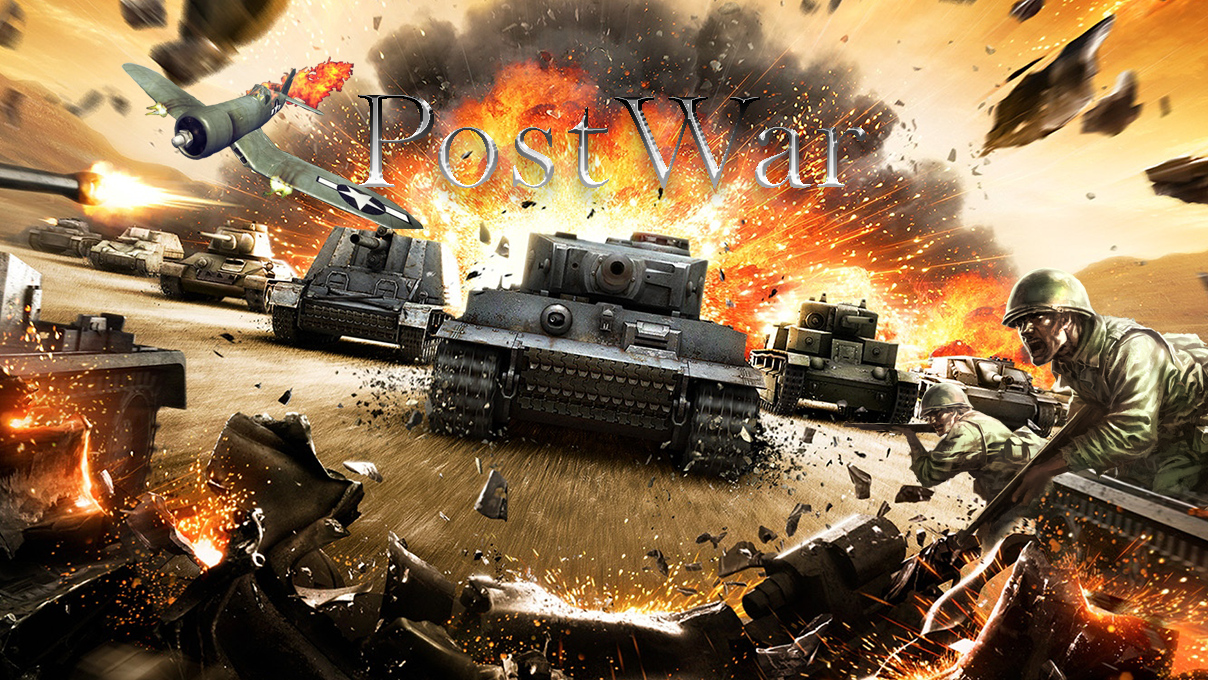
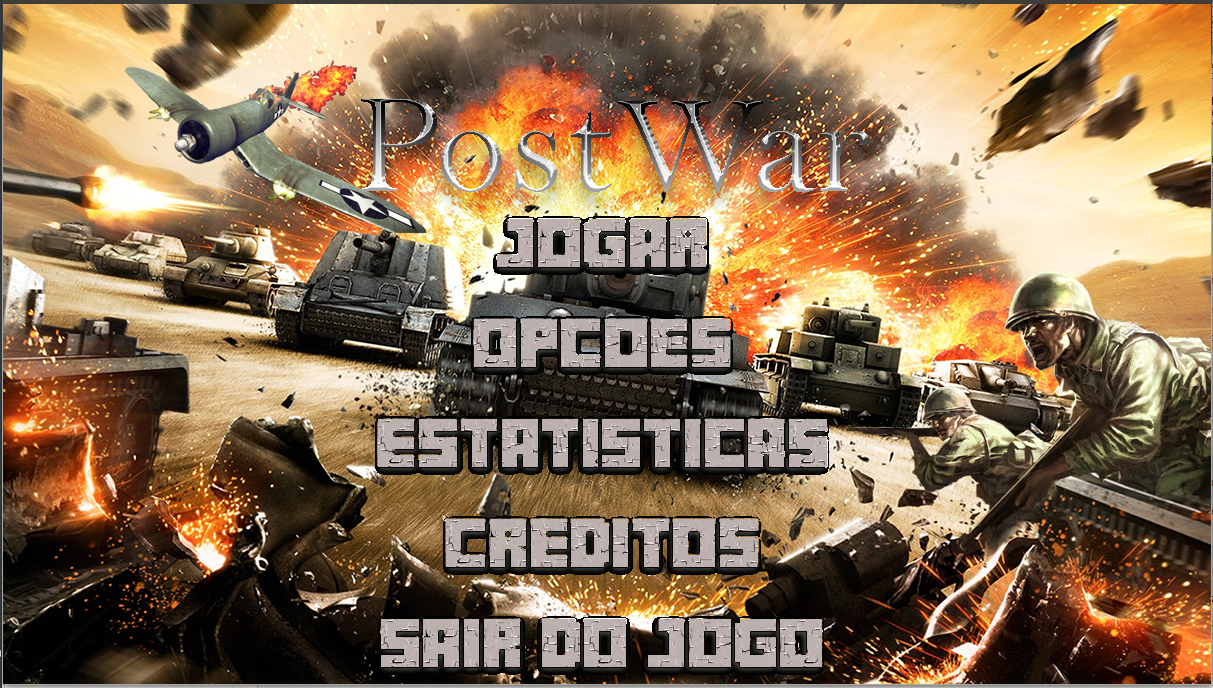
Consegui fazer a barra desaparecer hehuehue

diff --git a/source/GameFeatures/Menu/menu.cpp b/source/GameFeatures/Menu/menu.cpp
@@ -4,7 +4,7 @@
 #include "../../../include/draw.h"
 #include "../../../include/video.h"
 #include "../../../include/loop.h"
-
+#include "../../../include/gamefeatures.h"
 
 
 void load_menu(SDL_Surface *screen){
@@ -15,26 +15,14 @@ void load_menu(SDL_Surface *screen){
     borda = load_Image(path,screen);
     path = "source/GameFeatures/Menu/Images/menu.png";
     SDL_Surface *menu = load_Image(path, screen);
-    path = "source/GameFeatures/Menu/Images/jogar.png";
-    SDL_Surface *jogar = load_Image(path, screen); //h: 255, w: 78
-    path = "source/GameFeatures/Menu/Images/opcoes.png";
-    SDL_Surface *opcoes = load_Image(path, screen);// ,w: 78
-    path = "source/GameFeatures/Menu/Images/sair.png";
-    SDL_Surface *sair = load_Image(path, screen);
-    path = "source/GameFeatures/Menu/Images/estatisticas.png";
-    SDL_Surface *estatisticas = load_Image(path, screen);
-    path = "source/GameFeatures/Menu/Images/creditos.png";
-    SDL_Surface *creditos = load_Image(path, screen);
-    BlitImage(screen, menu, 0, 0);
-    BlitImage(screen, jogar, 476.5, 201);
-    BlitImage(screen, opcoes, 453.4, 301);
-    BlitImage(screen, estatisticas, 357, 401);
-    BlitImage(screen, creditos, 425.5, 501);
-    BlitImage(screen, sair, 360.5, 601);
-    SDL_Flip(screen);
 
+
+    SDL_Flip(screen);
+    int cont=0;
     Vetor_mouse *vetor = new Vetor_mouse;
     while(1){
+
+
 
         vetor = get_Input();
 
@@ -47,9 +35,13 @@ void load_menu(SDL_Surface *screen){
             //cout<<"Entrei aqui"<<endl;
             if(vetor->click == 1){
                 //cout<<"Clicou em jogar"<<endl;
-                //jogar();
+                inicio(screen);
             }
-        }
+
+        }   else{
+                 BlitImage(screen, menu, 0, 0);
+                SDL_Flip(screen);
+            }
 
     }
 

diff --git a/include/draw.h b/include/draw.h
@@ -15,7 +15,7 @@ extern void drawCircle(SDL_Surface *screen, int radius, int x, int y,
 	SDL_Color color);
 extern void drawLine(SDL_Surface *screen, int x0, int y0, int x1, int y1,
 	SDL_Color color);
-
+extern void inicio(SDL_Surface *screen);
 extern SDL_Surface *load_Image(string path,SDL_Surface *screen);
 extern void BlitImage(SDL_Surface *screen, SDL_Surface *image, int x, int y);
 extern void free_image(SDL_Surface *image);

diff --git a/source/features/Input/input.cpp b/source/features/Input/input.cpp
@@ -39,7 +39,7 @@ Vetor_mouse *get_Input(){
                     need to, but that tends to make
                     users rather impatient. */
                 case SDL_QUIT:
-                    printf("Quit event. Bye.\n");
+                    printf("Adeus.\n");
                 exit(0);
             }
         }

diff --git a/source/features/RenderWorld/load_image.cpp b/source/features/RenderWorld/load_image.cpp
@@ -49,5 +49,5 @@ void BlitImage(SDL_Surface *screen, SDL_Surface *image, int x, int y){
     dest.w = image->w;
     dest.h = image->h;
 
-    SDL_BlitSurface(image,&src,screen,&dest);
+    SDL_BlitSurface(image,NULL,screen,&dest);
 }

diff --git a/source/PostWar.cpp b/source/PostWar.cpp
@@ -1,7 +1,7 @@
 #include <iostream>
 #include "../include/draw.h"
 #include "../include/video.h"
-#include "gamefeatures.h"
+#include "../include/gamefeatures.h"
 #include <SDL/SDL.h>
 #include <SDL/SDL_image.h>
 

diff --git a/source/GameFeatures/Jogar/jogar.cpp b/source/GameFeatures/Jogar/jogar.cpp
@@ -1,0 +1,10 @@
+#include <iostream>
+#include<SDL/SDL.h>
+
+using namespace std;
+
+void inicio(SDL_Surface *screen){
+
+    cout<<"Yeah"<<endl;
+
+}

diff --git a/source/gamefeatures.h b/source/gamefeatures.h
@@ -4,7 +4,7 @@
 #include <SDL/SDL.h>
 
 extern void load_menu(SDL_Surface *screen);
-
+extern void inicio(SDL_Surface *screen);
 
 #endif
 
